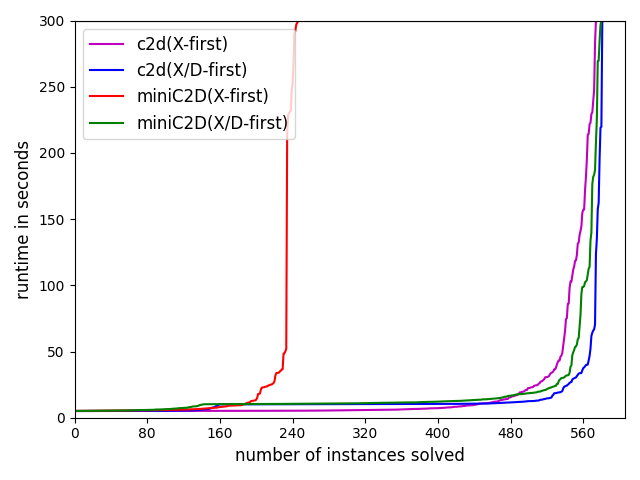
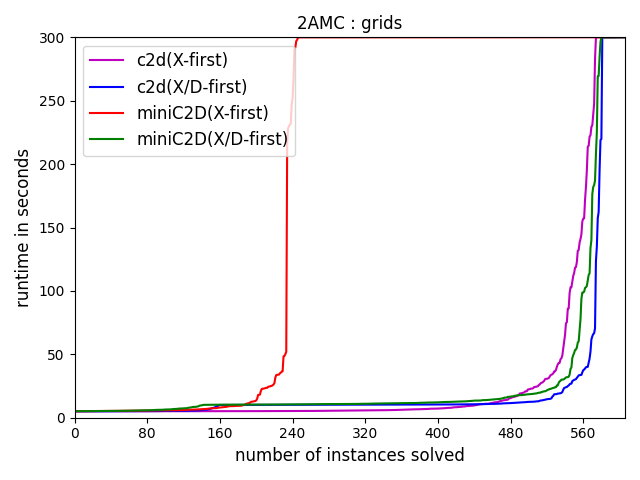
r final

diff --git a/plot.py b/plot.py
@@ -1,3 +1,4 @@
+from turtle import width
 import matplotlib.pyplot as plt
 from matplotlib.ticker import MaxNLocator
 import numpy as np
@@ -8,7 +9,7 @@ def csv2rec(filename):
     return np.recfromtxt(filename, dtype=None, delimiter=',', names=True, encoding='utf-8')
 
 #Switches
-EFFICIENCY = False
+EFFICIENCY = True
 PROBLOG = True
 SMPROBLOG = True
 MEU = True
@@ -168,7 +169,7 @@ if EFFICIENCY:
 
         use = [["gh", "gnb", "blood"], ["graphs"]]
         for i,u in enumerate(use):
-            plt.subplot(1,3,i+1)
+            #plt.subplot(1,2,i+1)
             ava = csv2rec(open("results/map/aspmc/results.csv"))
             take = []
             for s in u:
@@ -207,9 +208,13 @@ if EFFICIENCY:
             axes = plt.gca()
             axes.set_xlim([0,len(ava['total_time'])])
             axes.set_ylim([0,TIMEOUT])
+            axes.xaxis.set_major_locator(MaxNLocator(integer=True))
+            plt.legend(loc="upper right", prop={'size': LABEL_SIZE})
             plt.title("MAP : "+", ".join(u), size = LABEL_SIZE)
+            plt.tight_layout()
+            plt.show()
 
-        plt.subplot(1,3,3)
+        #plt.subplot(1,3,3)
         ava = csv2rec(open("results/meu/aspmc/results.csv"))
         ava['total_time'].sort()
         plt.plot(range(1, len(ava['total_time']) + 1), ava["total_time"], c = ASPMC_COLOR, label="aspmc")
@@ -235,8 +240,8 @@ if EFFICIENCY:
         axes.set_xlim([0,len(ava['total_time'])])
         axes.set_ylim([0,TIMEOUT])
         axes.xaxis.set_major_locator(MaxNLocator(integer=True))
-        handles, labels = plt.gca().get_legend_handles_labels()
-        plt.legend(handles, labels, loc='lower right', prop={'size': LABEL_SIZE})
+        plt.legend(loc="upper left", prop={'size': LABEL_SIZE})
+        plt.tight_layout()
         plt.show()
 
 
@@ -334,6 +339,7 @@ if EFFICIENCY:
         axes.set_ylim([0,TIMEOUT])
         axes.xaxis.set_major_locator(MaxNLocator(integer=True))
         plt.legend(loc="upper left", prop={'size': LABEL_SIZE})
+        plt.title("2AMC : rest", size = LABEL_SIZE)
         plt.tight_layout()
         plt.show()
 
@@ -353,6 +359,7 @@ if EFFICIENCY:
         axes.set_ylim([0,TIMEOUT])
         axes.xaxis.set_major_locator(MaxNLocator(integer=True))
         plt.legend(loc="upper left", prop={'size': LABEL_SIZE})
+        plt.title("2AMC : graph", size = LABEL_SIZE)
         plt.tight_layout()
         plt.show()
 
@@ -380,6 +387,7 @@ if EFFICIENCY:
         axes.set_ylim([0,TIMEOUT])
         axes.xaxis.set_major_locator(MaxNLocator(integer=True))
         plt.legend(loc="upper left", prop={'size': LABEL_SIZE})
+        plt.title("2AMC : grids", size = LABEL_SIZE)
         plt.tight_layout()
         plt.show()
 
@@ -411,12 +419,33 @@ if WIDTHS:
     plt.xscale('log')
     plt.gca().set_aspect('equal', adjustable='box')
     plt.plot(range(0, m_width + 10),range(0, m_width + 10), "-k")
+    plt.plot(range(0, m_width + 10),[20]*(m_width + 10), c = "grey", label="width 20")
+    plt.plot(range(0, m_width + 10),[40]*(m_width + 10), c = "grey", label="width 40")
     plt.xlabel(XWIDTH_LABEL, size = LABEL_SIZE)
     plt.ylabel(XDWIDTH_LABEL, size = LABEL_SIZE)
     #plt.title("Scatter Plot of Widths", size = LABEL_SIZE)
     plt.legend(loc="upper left", prop={'size': LABEL_SIZE})
     plt.tight_layout()
     plt.show()
+    
+    
+    r_w = m_width
+    import numpy as np
+    def perc_plot(widths, finished, max_width):
+        finished_nr = np.zeros(max_width+1)
+        total_nr = np.zeros(max_width+1)
+        total_with = np.zeros(max_width+1)
+        finished_with = np.zeros(max_width+1)
+        for i,w in enumerate(widths['XDwidth']):
+            total_with[w] += 1
+            if widths['benchmark'][i] in finished['benchmark']:
+                finished_with[w] += 1
+        for i in range(1, max_width+1):
+            total_nr[i] = total_nr[i-1] + total_with[i]
+            finished_nr[i] = finished_nr[i-1] + finished_with[i]
+        return (finished_nr, total_nr)
+        
+    
     
     plt.subplot(1,2,1)    
     ava = csv2rec(open("results/widths/map/results.csv"))
@@ -445,21 +474,14 @@ if WIDTHS:
     plt.xscale('log')
     plt.gca().set_aspect('equal', adjustable='box')
     plt.plot(range(0, m_width + 10),range(0, m_width + 10), "-k")
+    plt.plot(range(0, m_width + 10),[40]*(m_width + 10), c = "grey", linestyle='dashed', label="X/D-width 40")
+    plt.plot(range(0, m_width + 10),[20]*(m_width + 10), c = "grey", label="X/D-width 20")
     plt.xlabel(XWIDTH_LABEL, size = LABEL_SIZE)
     plt.ylabel(XDWIDTH_LABEL, size = LABEL_SIZE)
     #plt.title("Scatter Plot of Widths", size = LABEL_SIZE)
     plt.legend(loc="upper left", prop={'size': LABEL_SIZE})
     plt.tight_layout()
     plt.subplot(1,2,2)
-    ava = csv2rec(open("results/widths/meu/results.csv"))
-    ava[ava['XDwidth'] != -1]
-    fin = csv2rec(open("results/meu/aspmc/results.csv"))
-    take = [ i for i in range(len(fin)) if fin['solved'][i] ]
-    fin = fin[take]
-    take = [ i for i in range(len(ava)) if ava['benchmark'][i] in fin['benchmark'] ]
-    ava = ava[take]
-    plt.scatter(ava['Xwidth'], ava['XDwidth'], c="blue", marker="+", label="MEU")
-    m_width = max(max(ava['Xwidth']), max(ava['XDwidth']), m_width)
     ava = csv2rec(open("results/widths/map/results.csv"))
     ava[ava['XDwidth'] != -1]
     fin = csv2rec(open("results/map/aspmc/results.csv"))
@@ -478,6 +500,15 @@ if WIDTHS:
     ava = ava[take]
     plt.scatter(ava['Xwidth'], ava['XDwidth'], c="green", marker="+", label=r"SUCC$^{sm}$")
     m_width = max(max(ava['Xwidth']), max(ava['XDwidth']), m_width)
+    ava = csv2rec(open("results/widths/meu/results.csv"))
+    ava[ava['XDwidth'] != -1]
+    fin = csv2rec(open("results/meu/aspmc/results.csv"))
+    take = [ i for i in range(len(fin)) if fin['solved'][i] ]
+    fin = fin[take]
+    take = [ i for i in range(len(ava)) if ava['benchmark'][i] in fin['benchmark'] ]
+    ava = ava[take]
+    plt.scatter(ava['Xwidth'], ava['XDwidth'], c="blue", marker="+", label="MEU")
+    m_width = max(max(ava['Xwidth']), max(ava['XDwidth']), m_width)
     ava = csv2rec(open("results/widths/grids/results.csv"))
     ava[ava['XDwidth'] != -1]
     fin = csv2rec(open("results/concom/XD/results_grid.csv"))
@@ -495,8 +526,103 @@ if WIDTHS:
     plt.xscale('log')
     plt.gca().set_aspect('equal', adjustable='box')
     plt.plot(range(0, m_width + 10),range(0, m_width + 10), "-k")
+    plt.plot(range(0, m_width + 10),[40]*(m_width + 10), c = "grey", linestyle='dashed', label="X/D-width 40")
+    plt.plot(range(0, m_width + 10),[20]*(m_width + 10), c = "grey", label="X/D-width 20")
     #plt.title('Scatter plot')
     plt.xlabel('X-width')
     plt.ylabel('X/D-width')
     plt.legend(loc="upper left")
+    plt.xlabel(XWIDTH_LABEL, size = LABEL_SIZE)
+    plt.ylabel(XDWIDTH_LABEL, size = LABEL_SIZE)
+    #plt.title("Scatter Plot of Widths", size = LABEL_SIZE)
+    plt.legend(loc="upper left", prop={'size': LABEL_SIZE})
+    plt.tight_layout()
     plt.show()
+    
+    
+    ava = csv2rec(open("results/widths/meu/results.csv"))
+    fin = csv2rec(open("results/meu/aspmc/results.csv"))
+    take = [ i for i in range(len(fin)) if fin['solved'][i] ]
+    fin = fin[take]
+    finished, total = perc_plot(ava, fin, r_w)
+    ava = csv2rec(open("results/widths/map/results.csv"))
+    fin = csv2rec(open("results/map/aspmc/results.csv"))
+    take = [ i for i in range(len(fin)) if fin['solved'][i] ]
+    fin = fin[take]
+    ft, tt = perc_plot(ava, fin, r_w)
+    finished += ft
+    total += tt
+    ava = csv2rec(open("results/widths/smproblog/results.csv"))
+    fin = csv2rec(open("results/smproblog/aspmc/results.csv"))
+    take = [ i for i in range(len(fin)) if fin['solved'][i] ]
+    fin = fin[take]
+    ft, tt = perc_plot(ava, fin, r_w)
+    finished += ft
+    total += tt
+    ava = csv2rec(open("results/widths/grids/results.csv"))
+    fin = csv2rec(open("results/concom/XD/results_grid.csv"))
+    take = [ i for i in range(len(fin)) if fin['solved'][i] ]
+    fin = fin[take]
+    ft, tt = perc_plot(ava, fin, r_w)
+    finished += ft
+    total += tt
+    plt.plot(range(0,r_w + 1), total, c="blue", label="total")
+    plt.plot(range(0,r_w + 1), finished, c="orange", label="solved")
+    #plt.plot(range(0,r_w + 1), finished/total)
+
+    #plt.yscale('log')
+    #plt.xscale('log')
+    axes = plt.gca()
+    axes.set_xlim([0, 100])
+    axes.set_ylim([800, r_w])
+    #plt.plot(range(0, m_width + 10),range(0, m_width + 10), "-k")
+    #plt.title('Scatter plot')
+    plt.xlabel('X/D-width')
+    plt.ylabel('number of instances')
+    plt.legend(loc="upper left")
+    plt.show()
+    
+    def in_range(widths, finished, lower, upper):
+        finished_nr = 0
+        total_nr = 0
+        for i,w in enumerate(widths['XDwidth']):
+            if w > lower and w <= upper:
+                total_nr += 1
+                if widths['benchmark'][i] in finished['benchmark']:
+                    finished_nr += 1
+        return np.array([finished_nr, total_nr])
+    
+    ava = csv2rec(open("results/widths/meu/results.csv"))
+    fin = csv2rec(open("results/meu/aspmc/results.csv"))
+    take = [ i for i in range(len(fin)) if fin['solved'][i] ]
+    fin = fin[take]
+    res20 = in_range(ava, fin, 0, 20)
+    res40 = in_range(ava, fin, 20, 40)
+    res2000 = in_range(ava, fin, 40, 2000)
+    ava = csv2rec(open("results/widths/map/results.csv"))
+    fin = csv2rec(open("results/map/aspmc/results.csv"))
+    take = [ i for i in range(len(fin)) if fin['solved'][i] ]
+    fin = fin[take]
+    res20 += in_range(ava, fin, 0, 20)
+    res40 += in_range(ava, fin, 20, 40)
+    res2000 += in_range(ava, fin, 40, 2000)
+    ava = csv2rec(open("results/widths/smproblog/results.csv"))
+    fin = csv2rec(open("results/smproblog/aspmc/results.csv"))
+    take = [ i for i in range(len(fin)) if fin['solved'][i] ]
+    fin = fin[take]
+    res20 += in_range(ava, fin, 0, 20)
+    res40 += in_range(ava, fin, 20, 40)
+    res2000 += in_range(ava, fin, 40, 2000)
+    ava = csv2rec(open("results/widths/grids/results.csv"))
+    fin = csv2rec(open("results/concom/XD/results_grid.csv"))
+    take = [ i for i in range(len(fin)) if fin['solved'][i] ]
+    fin = fin[take]
+    res20 += in_range(ava, fin, 0, 20)
+    res40 += in_range(ava, fin, 20, 40)
+    res2000 += in_range(ava, fin, 40, 2000)
+    print(f"""\\begin{{tabular}}{{l|c|c|c}}
+    width & 0 - 20 & 21 - 40 & $>$ 40 \\\\
+    \\hline
+    total number of instances & {res20[1]} & {res40[1]} & {res2000[1]} \\\\
+    solved number of instances & {res20[0]} & {res40[0]} & {res2000[0]} \\\\
+\\end{{tabular}}""")

diff --git a/bench.py b/bench.py
@@ -911,35 +911,39 @@ if EFFICIENCY_BENCH:
             map_bench_pita(csv_writer) 
 
     if CONCOM:
-        #with open("results/concom/X/results_mini.csv", 'w') as results:
-        #    csv_writer = csv.writer(results)
-        #    concom_bench_aspmc(csv_writer,"X", "miniC2D") 
-        
-        #with open("results/concom/XD/results_mini.csv", 'w') as results:
-        #    csv_writer = csv.writer(results)
-        #    concom_bench_aspmc(csv_writer,"XD", "miniC2D") 
-
-        with open("results/concom/X/results_free.csv", 'w') as results:
+        #rest
+        with open("results/concom/X/results_mini.csv", 'w') as results:
             csv_writer = csv.writer(results)
-            concom_bench_aspmc(csv_writer,"X", "c2d") 
+            concom_bench_aspmc(csv_writer,"X", "miniC2D") 
         
-        #with open("results/concom/XD/results.csv", 'w') as results:
-        #    csv_writer = csv.writer(results)
-        #    concom_bench_aspmc(csv_writer,"XD", "c2d") 
-
+        with open("results/concom/XD/results_mini.csv", 'w') as results:
+            csv_writer = csv.writer(results)
+            concom_bench_aspmc(csv_writer,"XD", "miniC2D") 
         
-        #with open("results/concom/XD/results.csv", 'w') as results:
-        #    csv_writer = csv.writer(results)
-        #    concom_bench_aspmc(csv_writer, "XD") 
-
+        with open("results/concom/XD/results.csv", 'w') as results:
+            csv_writer = csv.writer(results)
+            concom_bench_aspmc(csv_writer,"XD", "c2d") 
         
-        #with open("results/concom/XD/results_grid_mini.csv", 'a') as results:
-        #    csv_writer = csv.writer(results)
-        #    graph_bench_aspmc(csv_writer, "XD") 
+        with open("results/concom/X/results.csv", 'w') as results:
+            csv_writer = csv.writer(results)
+            concom_bench_aspmc(csv_writer, "X", "c2d") 
+        
+        # grids
+        with open("results/concom/XD/results_grid_mini.csv", 'w') as results:
+            csv_writer = csv.writer(results)
+            graph_bench_aspmc(csv_writer, "XD", "miniC2D") 
+            
+        with open("results/concom/X/results_grid_mini.csv", 'w') as results:
+            csv_writer = csv.writer(results)
+            graph_bench_aspmc(csv_writer, "X", "miniC2D") 
 
-        #with open("results/concom/X/results_grid.csv", 'w') as results:
-        #    csv_writer = csv.writer(results)
-        #    graph_bench_aspmc(csv_writer, "X") 
+        with open("results/concom/XD/results_grid.csv", 'w') as results:
+            csv_writer = csv.writer(results)
+            graph_bench_aspmc(csv_writer, "XD", "c2d") 
+            
+        with open("results/concom/X/results_grid.csv", 'w') as results:
+            csv_writer = csv.writer(results)
+            graph_bench_aspmc(csv_writer, "X", "c2d") 
 
 from aspmc.compile.constrained_compile import compute_separator
 import aspmc.graph.treedecomposition as treedecomposition
@@ -1005,9 +1009,7 @@ def get_width_actual(cnf, definedness):
         return max(l_td.width, r_td.width)
 
     
-def width_bench_meu(csv_writer):
-    csv_writer.writerow(["benchmark", "width", "Xwidth", "XDwidth"])
-    benchmark_path = "./benchmarks/meu"
+def width_bench_meu(csv_writer, benchmark_path):
     onlyfiles = [join(benchmark_path, f) for f in listdir(benchmark_path) if isfile(join(benchmark_path, f))]
     ctr = 0
     for benchmark in onlyfiles:
@@ -1114,7 +1116,9 @@ def width_bench_problog(csv_writer):
 if WIDTH_BENCH:
     with open("results/widths/meu/results.csv", 'w') as results:
         csv_writer = csv.writer(results)
-        width_bench_meu(csv_writer)
+        csv_writer.writerow(["benchmark", "width", "Xwidth", "XDwidth"])
+        width_bench_meu(csv_writer, "./benchmarks/meu")
+        width_bench_meu(csv_writer, "./benchmarks/meu/viral")
     print("MEU WIDTH DONE")
 
     with open("results/widths/map/results.csv", 'w') as results:

diff --git a/gen.py b/gen.py
@@ -128,20 +128,20 @@ def gen_meu_viral(sizes, nr):
                 out_file.write("buys(P) :- market(P), from_marketing(P).\nbuys(P) :- trusts(P, Q), buys(Q), viral(P, Q).\n")
 
 # MAP
-#do_dir_map("./benchmarks/map/gh/", 10)
-#do_dir_map("./benchmarks/map/gnb/", 10)
-#do_dir_map("./benchmarks/map/blood/", 10)
-#do_dir_map("./benchmarks/map/graphs/", 10)
+do_dir_map("./benchmarks/map/gh/", 10)
+do_dir_map("./benchmarks/map/gnb/", 10)
+do_dir_map("./benchmarks/map/blood/", 10)
+do_dir_map("./benchmarks/map/graphs/", 10)
 
-#do_graph_map("./benchmarks/concom/graphs/problog_format/")
+do_graph_map("./benchmarks/concom/graphs/problog_format/")
 gen_grid([2,3,4,5,6,7,8,9,10],[2,3,4,5,6,7,8,9,10])
-#gen_grid([2,4,6,8,10,12,14,16,18,20,22,24,26,28,30], [2,3,4])
+gen_grid([2,4,6,8,10,12,14,16,18,20,22,24,26,28,30], [2,3,4])
 do_graph_map("./benchmarks/concom/grids/")
 
 # MEU
-#do_dir_meu("./benchmarks/meu/")
-#gen_meu_viral([3,4,5,6,7,8,9,10,11,12,13,14,15,16,17,18,19,20], 5)
-#gen_meu_viral([3,4,5,6,7,8,9,10], 10)
-#do_dir_meu("./benchmarks/meu/viral/")
+do_dir_meu("./benchmarks/meu/")
+gen_meu_viral([3,4,5,6,7,8,9,10,11,12,13,14,15,16,17,18,19,20], 5)
+gen_meu_viral([3,4,5,6,7,8,9,10], 10)
+do_dir_meu("./benchmarks/meu/viral/")
         
 
